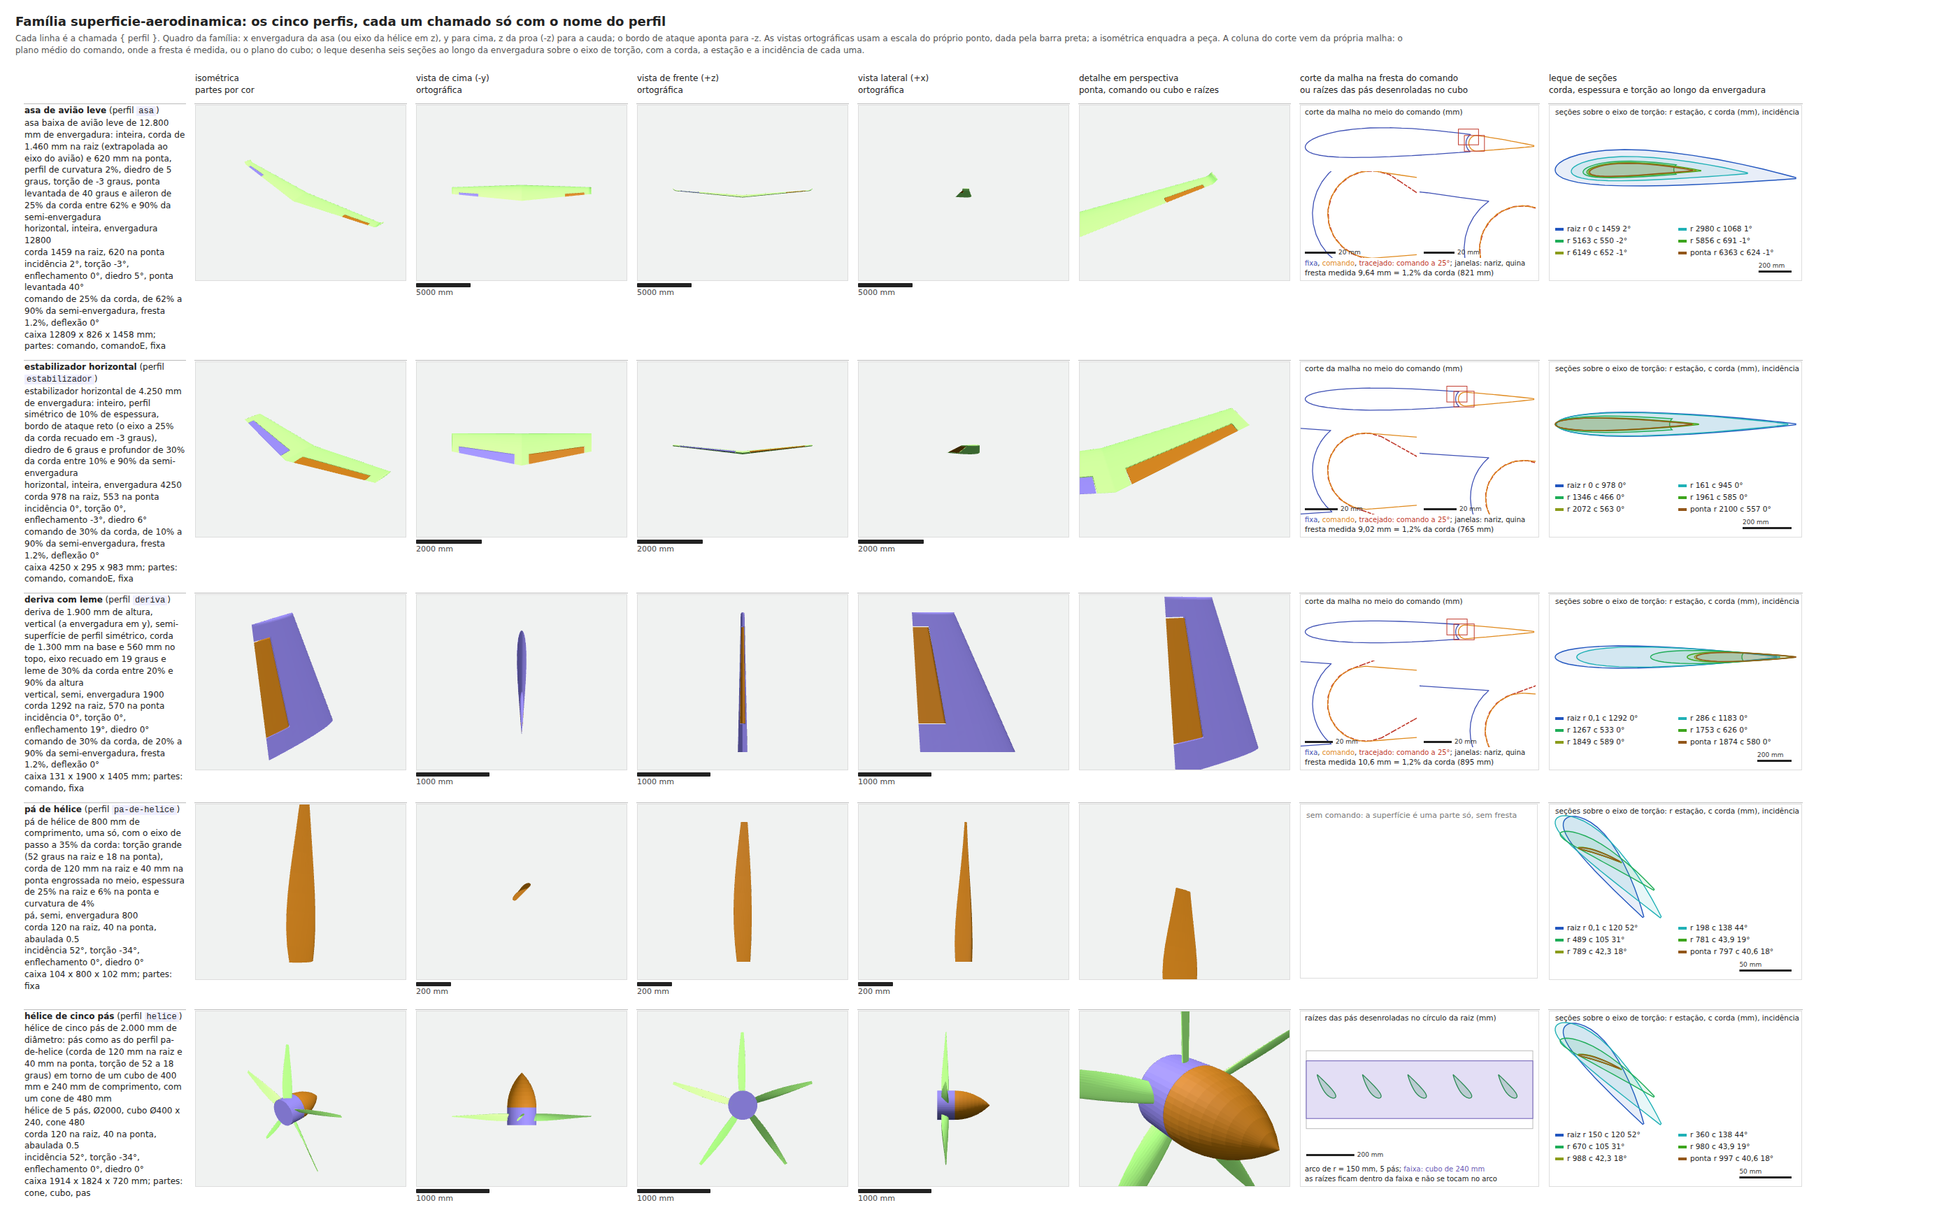
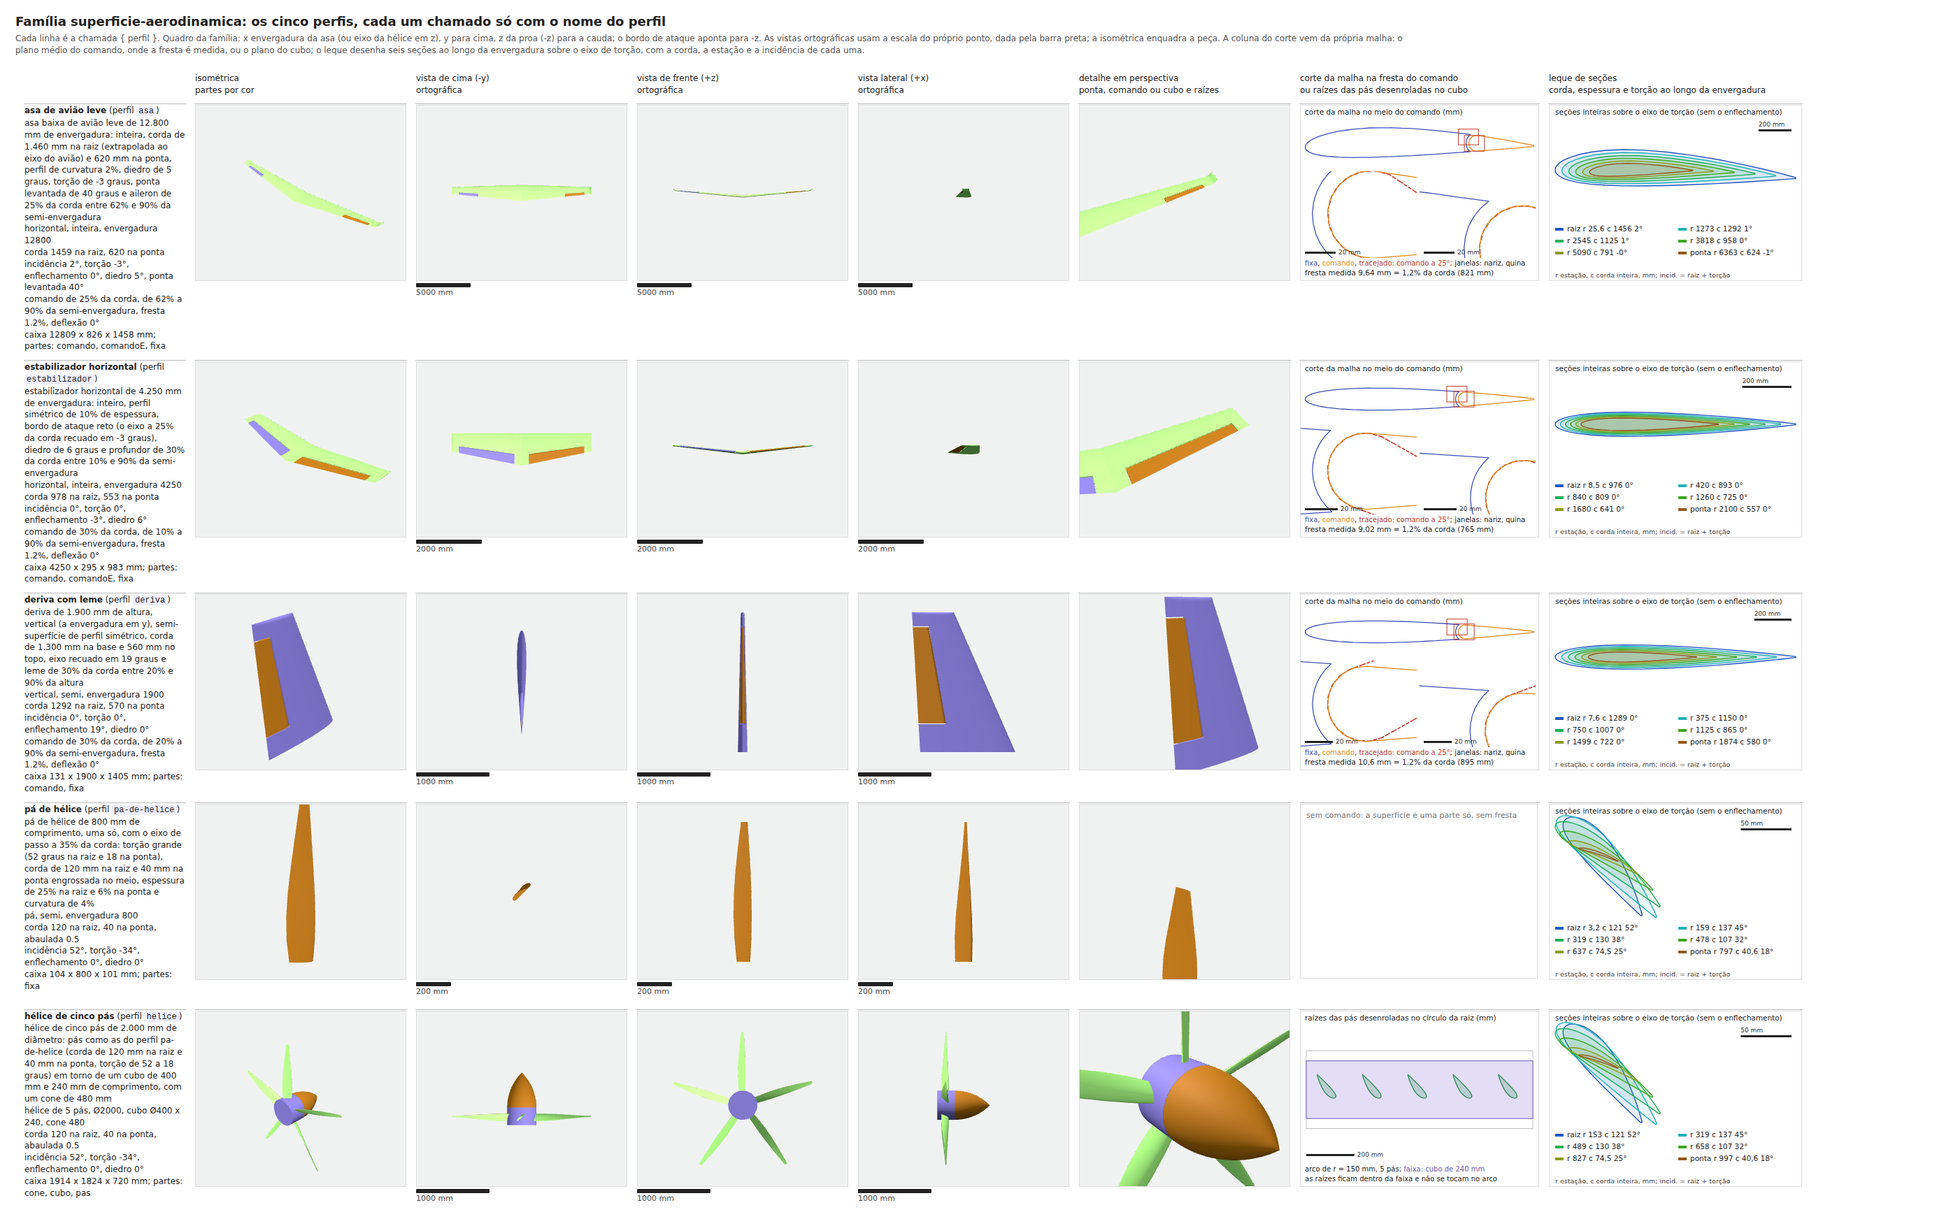
Superfície aerodinâmica: seções da curva da ponta espaçadas pela inclinação, pele lisa com aresta viva no bordo de fuga, leque com a corda inteira e mínimo legível
Claude-Session: https://claude.ai/code/session_015i1y8CrgTgEfwGG2HEX8g8

diff --git a/procedural/familias/superficie-aerodinamica/superficie-aerodinamica.test.js b/procedural/familias/superficie-aerodinamica/superficie-aerodinamica.test.js
@@ -15,9 +15,9 @@ import { sha256Hex } from '../../nucleo/sha256.js';
 import { FAMILIAS, ErroChamadaDeFamilia, chamar, criarRegistroDeFamilias } from '../index.js';
 import { SUPERFICIE_AERODINAMICA as F } from './index.js';
 import {
-  EXPOENTE_DAS_ESTACOES, GRAUS, LADOS_DA_SECAO, PONTOS_POR_FACE, contornoDoPerfil, linhaDeCurvatura, meiaEspessura, plantaDa,
+  EXPOENTE_DAS_ESTACOES, GRAUS, LADOS_DA_SECAO, PONTOS_POR_FACE, contornoDoPerfil, linhaDeCurvatura, meiaEspessura, plantaDa, pontoDaSecao, quadrosDoLoft,
 } from './geometria.js';
-import { LADOS_DO_CUBO } from './composicoes.js';
+import { ANGULO_DO_LISO, LADOS_DO_CUBO, PONTOS_DA_OGIVA } from './composicoes.js';
 
 const registro = criarRegistroDeFamilias({ familias: [F] });
 const MM = 0.001;
@@ -274,14 +274,14 @@ describe('a asa de avião leve medida na malha (perfil asa)', () => {
     expect(medido / esperado).toBeLessThan(1.0);
   });
 
-  it('a ponta levantada sai do diedro por uma curva suave e as seções acompanham: inclinação contínua, giro por seção de no máximo 13 graus', () => {
+  it('a ponta levantada sai do diedro por uma curva suave e as seções acompanham: inclinação contínua, giro por seção de no máximo 9 graus', () => {
     const { argumentos } = chamar(F, 'a', { perfil: 'asa' });
     const posicoes = Object.keys(argumentos).filter((nome) => /^fPos\d+$/.test(nome)).sort((a, b) => Number(a.slice(4)) - Number(b.slice(4))).map((nome) => argumentos[nome]);
     const inclinacoes = posicoes.slice(1).map((q, i) => Math.atan2(q[1] - posicoes[i][1], q[0] - posicoes[i][0]) / GRAUS);
     const apos = inclinacoes.filter((_, i) => posicoes[i][0] >= 0 && posicoes[i + 1][0] > posicoes[i][0]);
     expect(apos.slice(0, 6).every((g) => Math.abs(g - 5) < 1e-6 || g === 0)).toBe(true);
     const giros = apos.slice(1).map((g, i) => g - apos[i]);
-    expect(Math.max(...giros.map(Math.abs))).toBeLessThan(13);
+    expect(Math.max(...giros.map(Math.abs))).toBeLessThan(9);
     expect(Math.max(...apos)).toBeGreaterThan(5 + 40 * 0.9);
     expect(Math.max(...apos)).toBeLessThan(5 + 40 + 1e-3);
     /* a curva só cresce: a inclinação nunca volta */
@@ -306,6 +306,85 @@ describe('a asa de avião leve medida na malha (perfil asa)', () => {
     const sem = alto(rodar({ perfil: 'asa', pontaLevantada: 0 }).neutro);
     expect(sem).toBeLessThan(alto(neutro) - 100);
     expect(sem).toBeGreaterThan(Math.tan(5 * GRAUS) * 6000);
+  });
+});
+
+/* a incidência de cada seção cheia e o giro do bordo de ataque entre seções vizinhas, medidos nos argumentos que o `derivar` entrega */
+function secoesCheias(parametros) {
+  const { argumentos: a } = chamar(F, 'x', parametros);
+  const n = Object.keys(a).filter((nome) => /^fPos\d+$/.test(nome)).length;
+  const posicoes = Array.from({ length: n }, (_, i) => a[`fPos${i}`]);
+  const quadros = quadrosDoLoft(posicoes, a.orientacaoDoMundo);
+  const cheias = [];
+  for (let i = 0; i < n; i++) if (Array.isArray(a[`fS${i}P0`])) cheias.push(i);
+  const contorno = (i) => Array.from({ length: LADOS_DA_SECAO }, (_, k) => a[`fS${i}P${k}`]);
+  const area = (pontos) => pontos.reduce((t, p, k) => { const q = pontos[(k + 1) % pontos.length]; return t + (p[0] * q[1] - q[0] * p[1]) / 2; }, 0);
+  const incidencia = (i) => {
+    const bordoDeFuga = a[`fS${i}P0`]; const bordoDeAtaque = a[`fS${i}P${PONTOS_POR_FACE + 1}`];
+    return Math.atan2(bordoDeAtaque[1] - bordoDeFuga[1], -(bordoDeAtaque[0] - bordoDeFuga[0])) / GRAUS;
+  };
+  const bordo = (k) => cheias.map((i) => pontoDaSecao(posicoes[i], quadros[i], a[`fS${i}P${k}`].slice(0, 2)));
+  const giros = (pts) => pts.slice(1, -1).map((p, i) => {
+    const d1 = p.map((c, m) => c - pts[i][m]); const d2 = pts[i + 2].map((c, m) => c - p[m]);
+    return (Math.acos(Math.max(-1, Math.min(1, dot3(d1, d2) / (norma3(d1) * norma3(d2))))) / GRAUS);
+  });
+  return { cheias, area: (i) => area(contorno(i)), incidencia, giroDoBordoDeAtaque: giros(bordo(PONTOS_POR_FACE + 1)) };
+}
+
+describe('a incidência e o bordo de ataque entre as seções', () => {
+  it('a incidência é a da raiz mais a torção vezes a fração da envergadura, com o sinal da torção, e a seção não vira acima de 90 graus', () => {
+    const casos = [[70, 60], [70, -60], [-10, -60], [-10, 60], [0, 45]];
+    for (const [incidenciaNaRaiz, torcao] of casos) {
+      const parametros = { perfil: 'pa-de-helice', incidenciaNaRaiz, torcao };
+      const { cheias, incidencia, area } = secoesCheias(parametros);
+      const v = completo(parametros);
+      const semi = v.envergadura * MM;
+      expect(incidencia(cheias[0]), `${incidenciaNaRaiz} ${torcao}`).toBeCloseTo(incidenciaNaRaiz, 0);
+      const tampa = Math.min(Math.max(0.5 * v.espessuraNaPonta * v.cordaNaPonta * semi, 0.004 * semi), 0.03 * semi);
+      expect(incidencia(cheias.at(-4)), `${incidenciaNaRaiz} ${torcao}`).toBeCloseTo(incidenciaNaRaiz + torcao * (1 - tampa / semi), 0);
+      for (const i of cheias) expect(area(i), `seção ${i} de ${incidenciaNaRaiz} ${torcao}`).toBeGreaterThan(0);
+    }
+  });
+
+  it('no ponto máximo (incidência 70, torção +60) a incidência passa de 70 a 128 graus, a convenção de todos os pontos: a torção positiva soma', () => {
+    const { cheias, incidencia, area } = secoesCheias(ponto('maximo'));
+    expect(ponto('maximo')).toMatchObject({ incidenciaNaRaiz: 70, torcao: 60 });
+    expect(incidencia(cheias[0])).toBeCloseTo(70, 0);
+    /* a última seção cheia, antes da tampa de 0,42 m da ponta (3% da semi-envergadura de 14 m), está a 97% da envergadura: 70 + 60 x 0,97 */
+    expect(incidencia(cheias.at(-4))).toBeCloseTo(70 + 60 * (1 - 0.42 / 14), 0);
+    for (let k = 1; k < cheias.length - 3; k++) expect(incidencia(cheias[k])).toBeGreaterThanOrEqual(incidencia(cheias[k - 1]) - 0.1);
+    for (const i of cheias) expect(area(i)).toBeGreaterThan(0);
+    /* e a pá do avião, com torção negativa, vai de 52 a 18 graus: a torção negativa subtrai */
+    const pa = secoesCheias({ perfil: 'pa-de-helice' });
+    expect(pa.incidencia(pa.cheias.at(-4))).toBeLessThan(pa.incidencia(pa.cheias[0]));
+  });
+
+  it('o bordo de ataque gira pouco entre seções vizinhas: 3 graus na pá, 9 na asa e 13 na asa de ponta de 60 graus; no ponto máximo, 10 no trecho reto e 11 na curva', () => {
+    expect(Math.max(...secoesCheias({ perfil: 'pa-de-helice' }).giroDoBordoDeAtaque)).toBeLessThan(3.2);
+    expect(Math.max(...secoesCheias({ perfil: 'helice' }).giroDoBordoDeAtaque)).toBeLessThan(3.2);
+    expect(Math.max(...secoesCheias({ perfil: 'asa' }).giroDoBordoDeAtaque.slice(1, -2))).toBeLessThan(9);
+    expect(Math.max(...secoesCheias({ perfil: 'asa', pontaLevantada: 60 }).giroDoBordoDeAtaque.slice(1, -2))).toBeLessThan(13);
+    const { giroDoBordoDeAtaque: g } = secoesCheias(ponto('maximo'));
+    /* a raiz (o degrau do diedro dentro do cubo), o começo da curva (a corda de 3 m contra uma curva de 0,7 m) e a tampa são as exceções medidas */
+    expect(Math.max(...g.slice(1, 7))).toBeLessThan(10);
+    expect(Math.max(...g.slice(10, 17))).toBeLessThan(11);
+    expect(Math.max(...g.slice(7, 10))).toBeLessThan(38);
+  });
+});
+
+describe('o sombreamento liso e a ogiva do cone', () => {
+  it('a pele das superfícies e da hélice vem marcada lisa pelo ângulo limite, e o cone tem uma ogiva de 14 pontos de perfil', () => {
+    const { neutro } = rodar({ perfil: 'helice' });
+    for (const parte of ['pas', 'cone', 'cubo']) {
+      const faces = [...neutro.F.values()].filter((f) => f.parte === parte);
+      expect(faces.length, parte).toBeGreaterThan(0);
+      expect(faces.every((f) => f.liso === ANGULO_DO_LISO), parte).toBe(true);
+    }
+    const asa = rodar({ perfil: 'asa' }).neutro;
+    expect([...asa.F.values()].every((f) => f.liso === ANGULO_DO_LISO)).toBe(true);
+    expect(PONTOS_DA_OGIVA).toBe(14);
+    const raios = new Set(verticesDaParte(neutro, 'cone').map(({ p }) => Math.round(Math.hypot(p[0], p[1]) * 1e3)));
+    expect(raios.size).toBeGreaterThanOrEqual(PONTOS_DA_OGIVA);
   });
 });
 

diff --git a/procedural/familias/superficie-aerodinamica/superficie.js b/procedural/familias/superficie-aerodinamica/superficie.js
@@ -17,8 +17,8 @@
    orientação. */
 import {
   ANGULOS_DA_TAMPA, ESPESSURA_DA_TAMPA, FAIXA_DO_RAIO, FRACAO_DO_CORTE_NA_ENVERGADURA, FRACAO_MAXIMA_DA_FRESTA_NO_COMANDO, GRAUS,
-  INTERVALOS_ATE_A_CURVA, INTERVALOS_DA_RAIZ_AO_COMANDO, INTERVALOS_DO_COMANDO_A_CURVA, INTERVALOS_NA_CURVA, INTERVALOS_NO_COMANDO,
-  INTERVALOS_NO_ENTALHE, LADOS_DA_SECAO, LADOS_DO_COMANDO, MINIMO_DO_CORTE, contornoComEntalhe, contornoDaSecao, contornoDoComando,
+  INTERVALOS_ATE_A_CURVA, INTERVALOS_DA_RAIZ_AO_COMANDO, INTERVALOS_DO_COMANDO_A_CURVA, INTERVALOS_NO_COMANDO,
+  INTERVALOS_NO_ENTALHE, LADOS_DA_SECAO, LADOS_DO_COMANDO, MINIMO_DO_CORTE, intervalosNaCurva, inverterSuave, contornoComEntalhe, contornoDaSecao, contornoDoComando,
   dot, mapear, meiaEspessura, norma, plantaDa, pontoDaSecao, primeiroDoGrupoDoEntalhe, quadrosDoLoft, transformarPonto,
 } from './geometria.js';
 
@@ -28,10 +28,15 @@ export function contagemDeSecoes({ simetria, comando }) {
   const meio = comando
     ? INTERVALOS_DA_RAIZ_AO_COMANDO + (1 + INTERVALOS_NO_ENTALHE) + 1 + INTERVALOS_DO_COMANDO_A_CURVA
     : INTERVALOS_ATE_A_CURVA;
-  return { fixa: raiz + 1 + meio + INTERVALOS_NA_CURVA + ANGULOS_DA_TAMPA.length + 1, comando: INTERVALOS_NO_COMANDO + 1 + 2 };
+  return { fixa: raiz + 1 + meio + intervalosNaCurva(comando) + ANGULOS_DA_TAMPA.length + 1, comando: INTERVALOS_NO_COMANDO + 1 + 2 };
 }
 
 const ate = (de, ao, n, tipo) => Array.from({ length: n }, (_, k) => ({ x: de + ((ao - de) * (k + 1)) / n, tipo }));
+/* as seções da curva da ponta, espaçadas para a fração `(k / n) ** expoente` do ângulo da ponta chegar em cada uma (o inverso da curva
+   de quinto grau): com o expoente 1 o giro entre seções vizinhas é o ângulo dividido por n em toda a curva, e não 1,9 vezes isso no meio;
+   com 2, a superfície sem comando, as primeiras seções ficam coladas no começo da curva, onde o bordo de ataque de uma pá de corda larga
+   e incidência alta vira de 63 para 34 graus por seção (medido no ponto máximo) */
+const naCurva = (de, ao, n, expoente) => Array.from({ length: n }, (_, k) => ({ x: de + (ao - de) * inverterSuave(((k + 1) / n) ** expoente), tipo: 'cheia' }));
 const arredondar = (v) => Math.round(v * 1e12) / 1e12;
 
 /** O índice da coordenada do mundo que o espelho em torno do plano de simetria nega: o x do avião (orientação 0) ou o y. */
@@ -84,7 +89,7 @@ export function superficieEmSecoes(p) {
   } else {
     estacoes.push(...ate(xDoDegrau, xDaCurva, INTERVALOS_ATE_A_CURVA, 'cheia'));
   }
-  estacoes.push(...ate(xDaCurva, xDoCorte, INTERVALOS_NA_CURVA, 'cheia'));
+  estacoes.push(...naCurva(xDaCurva, xDoCorte, intervalosNaCurva(p.comando), p.comando ? 1 : 2));
   for (const angulo of ANGULOS_DA_TAMPA) estacoes.push({ x: xDoCorte + comprimentoDaTampa * Math.sin(angulo * GRAUS), tipo: 'cheia', escalaDeW: Math.cos(angulo * GRAUS) });
   estacoes.push({ x: semi, tipo: 'borda' });
 

diff --git a/procedural/familias/superficie-aerodinamica/geometria.js b/procedural/familias/superficie-aerodinamica/geometria.js
@@ -43,11 +43,14 @@ export const PONTOS_ATRAS_DO_EIXO = 9;
 export const PONTOS_DO_NARIZ = 9;
 export const LADOS_DO_COMANDO = 2 * PONTOS_ATRAS_DO_EIXO + PONTOS_DO_NARIZ + 1;
 /* as seções de cada trecho (o bloco de ids do núcleo guarda 1000 vértices e 1000 faces por `loft`) */
-export const INTERVALOS_ATE_A_CURVA = 8;
+export const INTERVALOS_ATE_A_CURVA = 6;
 export const INTERVALOS_DA_RAIZ_AO_COMANDO = 4;
 export const INTERVALOS_NO_ENTALHE = 3;
 export const INTERVALOS_DO_COMANDO_A_CURVA = 3;
+/* a curva da ponta levantada: sem comando sobram seções no bloco de 1000 vértices do `loft` (6 do trecho reto e 12 da curva, contra 24 com comando), e a pá e a superfície sem comando ganham seis na curva */
 export const INTERVALOS_NA_CURVA = 6;
+export const INTERVALOS_NA_CURVA_SEM_COMANDO = 12;
+export const intervalosNaCurva = (comando) => (comando ? INTERVALOS_NA_CURVA : INTERVALOS_NA_CURVA_SEM_COMANDO);
 export const INTERVALOS_NO_COMANDO = 3;
 /* a tampa da ponta: a espessura da seção vezes o cosseno destes ângulos, e a última seção é a corda */
 export const ANGULOS_DA_TAMPA = Object.freeze([30, 55, 75]);
@@ -65,6 +68,13 @@ export const FRACAO_MAXIMA_DA_FRESTA_NO_COMANDO = 0.1;
 export const FAIXA_DO_RAIO = 0.010;
 
 const suave = (t) => (t <= 0 ? 0 : t >= 1 ? 1 : t * t * t * (10 + t * (-15 + 6 * t)));
+/** O inverso de `suave` em [0, 1], por bisecção: a fração do trecho em que a curva da ponta chega à fração `y` do seu ângulo. */
+export function inverterSuave(y) {
+  let baixo = 0;
+  let alto = 1;
+  for (let k = 0; k < 60; k++) { const meio = (baixo + alto) / 2; if (suave(meio) < y) baixo = meio; else alto = meio; }
+  return (baixo + alto) / 2;
+}
 const arredondar = (valor) => Math.round(valor * 1e10) / 1e10;
 const cross = (a, b) => [a[1] * b[2] - a[2] * b[1], a[2] * b[0] - a[0] * b[2], a[0] * b[1] - a[1] * b[0]];
 const norma = ([x, y, z]) => { const l = Math.hypot(x, y, z) || 1; return [x / l, y / l, z / l]; };

diff --git a/procedural/familias/superficie-aerodinamica/composicoes.js b/procedural/familias/superficie-aerodinamica/composicoes.js
@@ -26,7 +26,9 @@ const PARTE = 'mecanifica.parte@1';
 const PORTA = 'mecanifica.porta@1';
 
 export const LADOS_DO_CUBO = 48;
-export const PONTOS_DA_OGIVA = 9;
+export const PONTOS_DA_OGIVA = 14;
+/* o ângulo limite do sombreamento liso: a quina mais fechada que ele (o bordo de fuga, a face do cubo) fica nítida */
+export const ANGULO_DO_LISO = 60;
 
 /** O id da composição de superfície: a semi ou a inteira, sem ou com comando. */
 export const idDaSuperficie = ({ simetria, comando }) => `superficie-aerodinamica.${simetria ? 'inteira' : 'semi'}${comando ? '-com-comando' : ''}`;
@@ -72,7 +74,8 @@ function noDoLoft({ id, grupo, origemId, tipos, lados }) {
 const parteDe = (id, nome, origem) => ({ id: `parte-${id}`, operacao: 'parte', argumentos: { nome, sel: { origem } } });
 const materialDe = (id, usa, origem) => ({ id: `material-${id}`, operacao: 'material', argumentos: { usa, sel: { origem } } });
 const solidoDe = (id, origem) => ({ id: `solido-${id}`, operacao: 'solido', argumentos: { sel: { origem } } });
-const corpo = (id, nome, material, origem) => [parteDe(id, nome, origem), materialDe(id, material, origem), solidoDe(id, origem)];
+const lisoDe = (id, origem) => ({ id: `liso-${id}`, operacao: 'liso', argumentos: { angulo: ANGULO_DO_LISO, sel: { origem } } });
+const corpo = (id, nome, material, origem) => [parteDe(id, nome, origem), materialDe(id, material, origem), solidoDe(id, origem), lisoDe(id, origem)];
 
 function portaDaRaiz(de) {
   return {

diff --git a/docs/mecanifica/CONTRATO-DA-FAMILIA.md b/docs/mecanifica/CONTRATO-DA-FAMILIA.md
@@ -118,6 +118,8 @@ A `superficie-aerodinamica` (`procedural/familias/superficie-aerodinamica/`) ger
 
 A envergadura é o único parâmetro em milímetro (200 a 40.000, de ponta a ponta quando `simetria` é 1, o comprimento da semi-superfície quando é 0 e o diâmetro na hélice); corda, espessura, comprimento do cone e do cubo são razões da envergadura, os ângulos estão em graus e as contagens em contagem. `orientacao` 0 é a superfície horizontal (envergadura em x, bordo de ataque para -z), 1 a vertical (envergadura em y, a deriva) e 2 a pá (envergadura em y, corda no plano de rotação). O perfil tem curvatura e posição da curvatura, espessura da raiz e da ponta e bordo de fuga com espessura mínima (`bordoDeFuga`, de 0,2% a 2% da corda); a corda vai da raiz à ponta em reta, com um abaulamento opcional que a engrossa no meio (`abaulamentoDaCorda`, o da pá); a torção é linear em torno do eixo de torção (`eixoDeTorcao`, a fração da corda), somada à incidência da raiz; o enflechamento desloca a seção em z sem inclinar o perfil; o diedro levanta o caminho; e a ponta levantada soma ao diedro uma inclinação que cresce por uma curva de quinto grau nos últimos `extensaoDaPonta` da semi-envergadura, com as seções perpendiculares ao caminho. A ponta fecha em quatro seções cada vez mais finas (a espessura vezes o cosseno de 30, 55 e 75 graus) até uma corda, sem faceta, e o piso de 0,4% da semi-envergadura no comprimento dessa tampa mantém as faces maiores que a tolerância de normal do adaptador na ponta de 2 mm de corda do ponto mínimo.
 
+A incidência de cada seção é `incidenciaNaRaiz` mais `torcao` vezes a fração da envergadura, com o sinal da torção: a torção positiva soma e a negativa subtrai, e o ponto máximo (incidência 70, torção +60) vai de 70 a 128 graus na última seção cheia, antes da tampa, sem a seção virar (a área do contorno continua positiva). Na curva da ponta levantada as seções se espaçam para a fração `(k / n) ** expoente` do ângulo chegar em cada uma, pelo inverso da curva de quinto grau: com expoente 1 (superfície com comando, 6 seções) o bordo de ataque gira no máximo 8 graus entre seções vizinhas na asa e 12 na asa de ponta de 60 graus; sem comando (pá e superfície sem comando, 6 seções no trecho reto e 12 na curva, o que o bloco de 1000 vértices do `loft` deixa) o expoente é 2, para as primeiras seções ficarem coladas ao começo da curva. No ponto máximo, que tem corda de 3,2 m contra uma curva de 0,7 m, o bordo de ataque gira até 9 graus no trecho reto, 10 na curva e 37 nas duas seções do começo dela, o que o espaçamento não corrige. Toda a pele (superfícies, pás, cubo e cone) leva `liso` com ângulo limite de 60 graus, de modo que as facetas da ogiva do cone (14 pontos de perfil) e dos bordos não aparecem no sombreamento e o bordo de fuga e a face do cubo continuam nítidos.
+
 As abscissas de cada face do perfil seguem um cosseno elevado a 1,6 (`EXPOENTE_DAS_ESTACOES`), mais fechadas no bordo de ataque que no de fuga. Com o cosseno puro o contorno girava 42 graus no nariz da asa e 60 no do estabilizador de 10%, que era o bordo de ataque agudo que o crítico apontou; com o expoente o giro do nariz cai a 7 e 11 graus e o maior giro fora do bordo de fuga fica abaixo de 30, com os mesmos 40 pontos por seção que cabem no bloco de 1000 vértices do `loft`. O intradorso fica côncavo onde a curvatura pede (4% na pá, 6% na asa) e é quase plano na asa de 2%, como no NACA 2412.
 
 O comando (aileron, flap, profundor, leme) é o trecho do bordo de fuga entre `inicioDoComando` e `fimDoComando` da semi-envergadura, atrás do eixo da dobradiça, a `cordaDoComando` do bordo de fuga. A parte fixa tem um entalhe circular concêntrico com o nariz do comando e maior que ele pela `fresta` (fração da corda no meio do comando, no máximo 10% da largura do comando), e o comando fica a uma fresta de cada face do entalhe. `deflexao` gira o comando em torno do eixo da dobradiça por cinco giros em torno de eixos do mundo, com o bordo de fuga para baixo positivo (para +x na deriva), e `comandoDiferencial` 1 inverte o lado esquerdo, como no aileron. A fixa, `comando` e `comandoE` são partes separadas. Os testes medem que a deflexão gira o comando rígido em torno do eixo publicado, no ângulo pedido, e que o curso de -35 a 35 graus não toca a parte fixa na deriva e no estabilizador.
